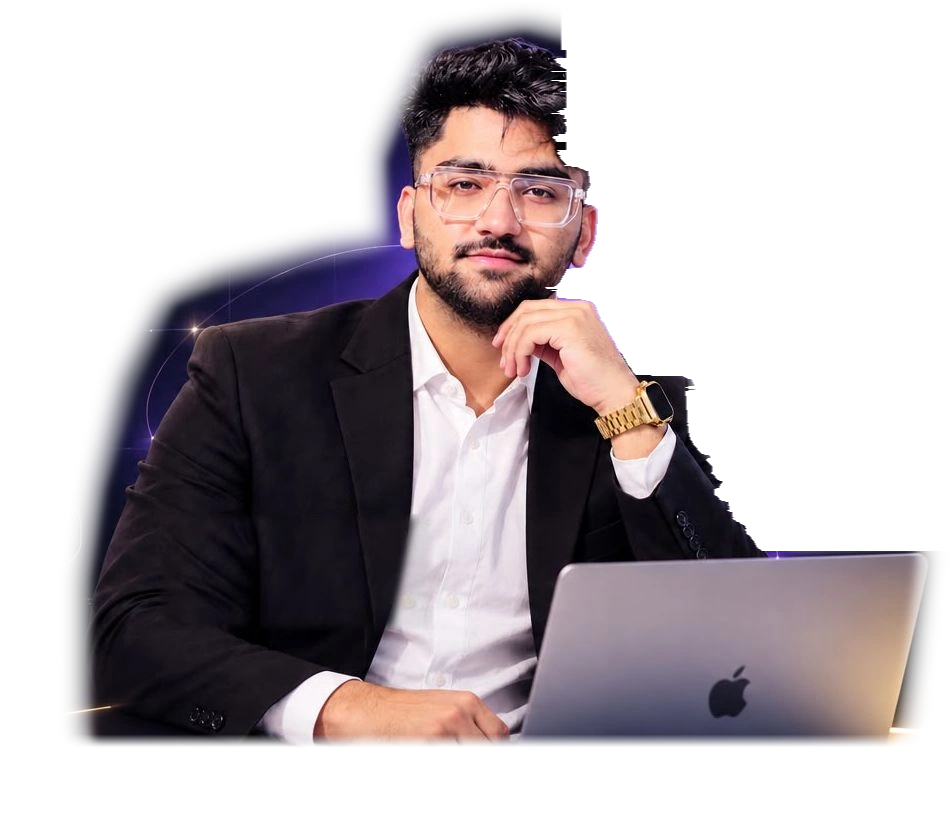
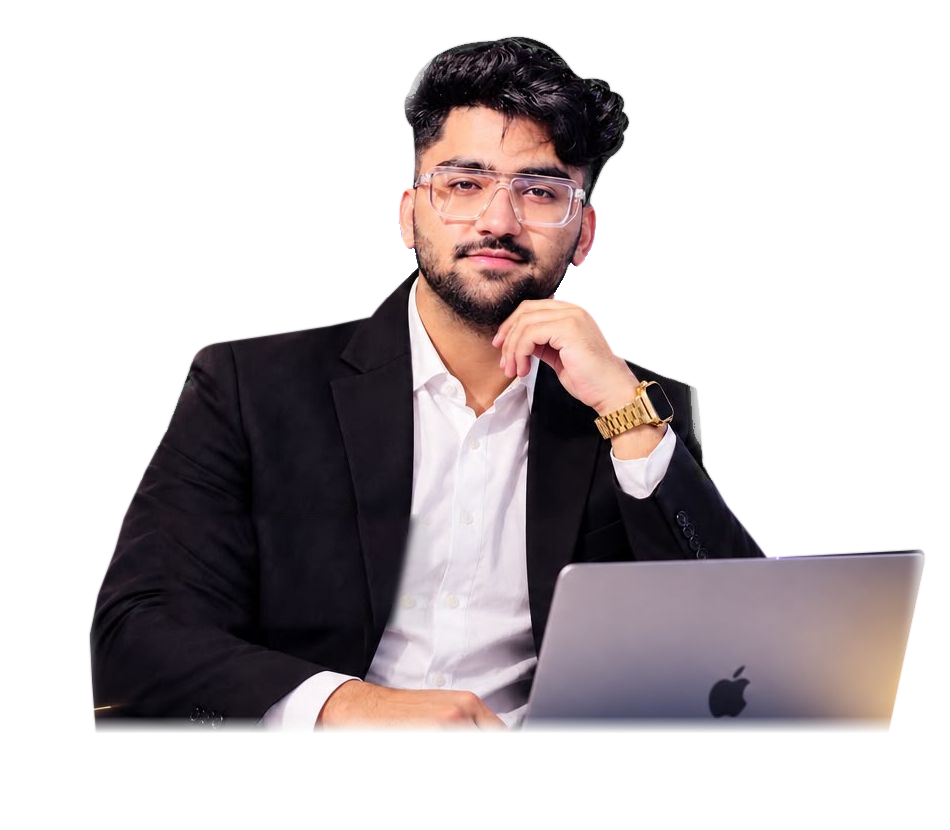
fix(hero): restore full head and hair on founder portrait while keeping clean cutout

diff --git a/src/components/HeroSection.tsx b/src/components/HeroSection.tsx
@@ -274,7 +274,7 @@ export default function HeroSection() {
             >
               <div className="relative w-full h-full">
                 <Image
-                  src="/images/faraz-portrait.webp?v=3"
+                  src="/images/faraz-portrait.webp?v=4"
                   alt="Faraz Ahmed - Web Developer & AI Solutions Specialist"
                   fill
                   sizes="(max-width: 640px) 100vw, (max-width: 1024px) 50vw, 640px"
